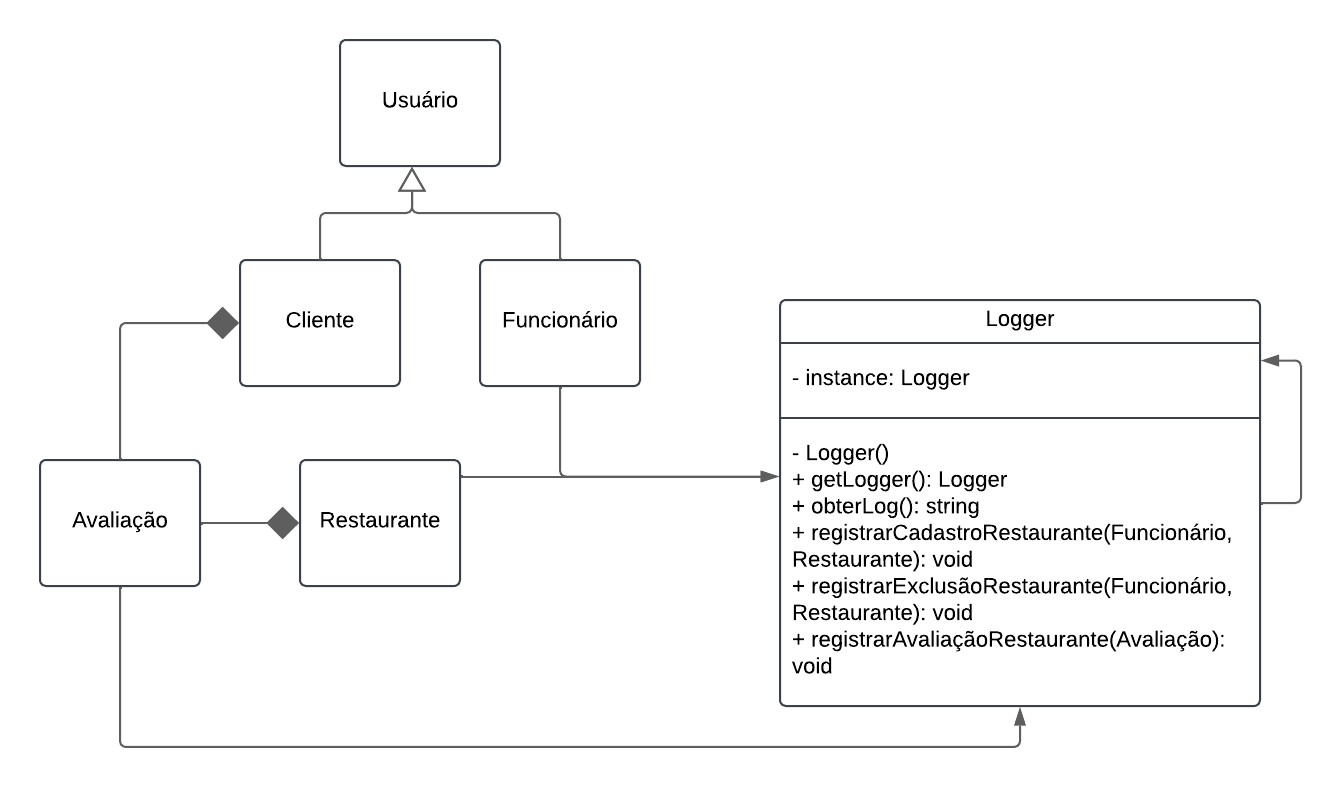
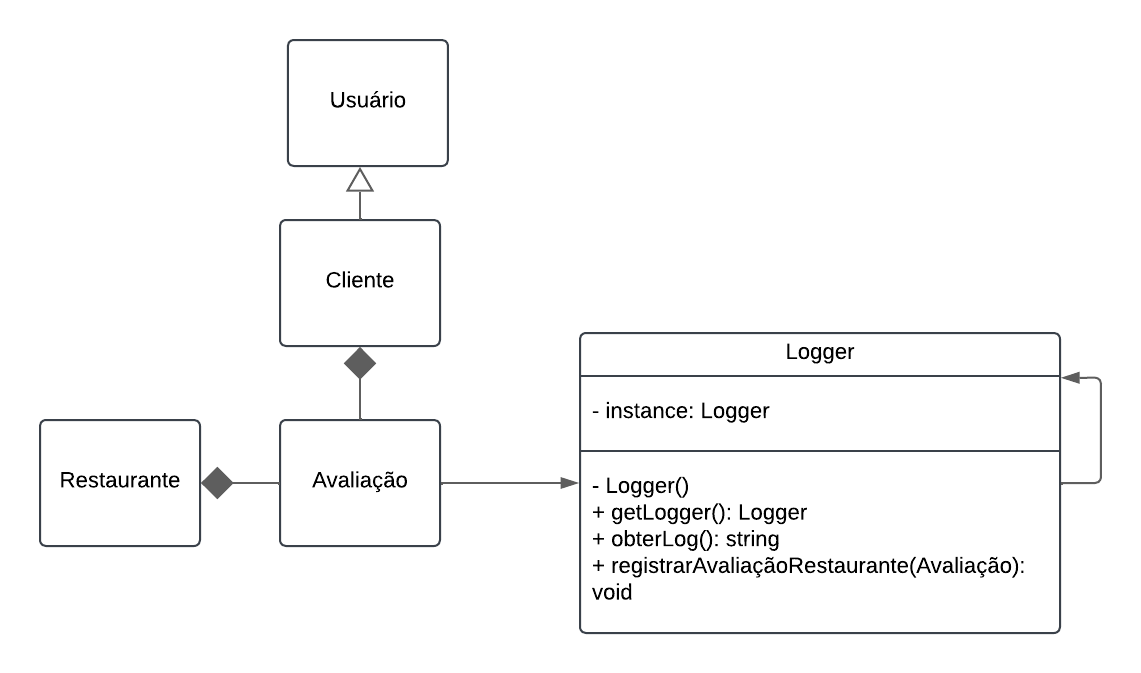
fix: muda escopo da implementação do singleton

diff --git a/docs/gofs-criacionais/singleton.md b/docs/gofs-criacionais/singleton.md
@@ -20,12 +20,9 @@ Temos como objetivo realizar a implementação do padrão de design Singleton pa
 
 ## Modelagem
 
-No nosso sistema, poderíamos utilizar arquivos de log para vários contextos. No entanto, desejamos logs apenas para:
+No nosso sistema, poderíamos utilizar arquivos de log para vários contextos. No entanto, desejamos logs apenas para a Avaliação de um Restaurante por um Cliente. 
 
-- O cadastro e a exclusão de Restaurantes por um Funcionário;
-- A Avaliação de um Restaurante por um Cliente. 
-
-A modelagem, na Figura 1, abstrai o conteúdo (métodos e atributos) das classes citadas (Avaliação, Cliente, Funcionário e Restaurante), por motivos de simplicidade na visualização do diagrama. Para verificar o conteúdo dessas classes, veja o [Diagrama de Classes](https://unbarqdsw2024-2.github.io/2024.2_G10_Recomendacao_Entrega_03/#/refatoracoes/diagrama-de-classes).
+A modelagem, na Figura 1, abstrai o conteúdo (métodos e atributos) das classes citadas (Avaliação, Cliente e Restaurante), por motivos de simplicidade na visualização do diagrama. Para verificar o conteúdo dessas classes, veja o [Diagrama de Classes](https://unbarqdsw2024-2.github.io/2024.2_G10_Recomendacao_Entrega_03/#/refatoracoes/diagrama-de-classes).
 
 <center>
 <p style="text-align: center"><b>Figura 1:</b> Diagrama UML para o Singleton utilizado no projeto.</p>
